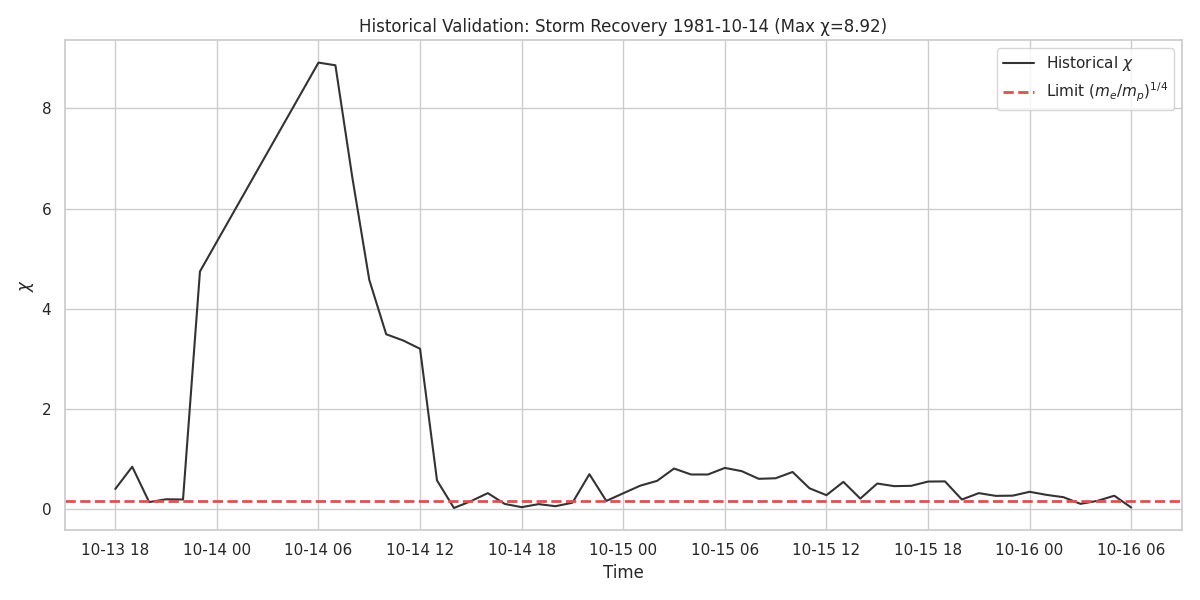
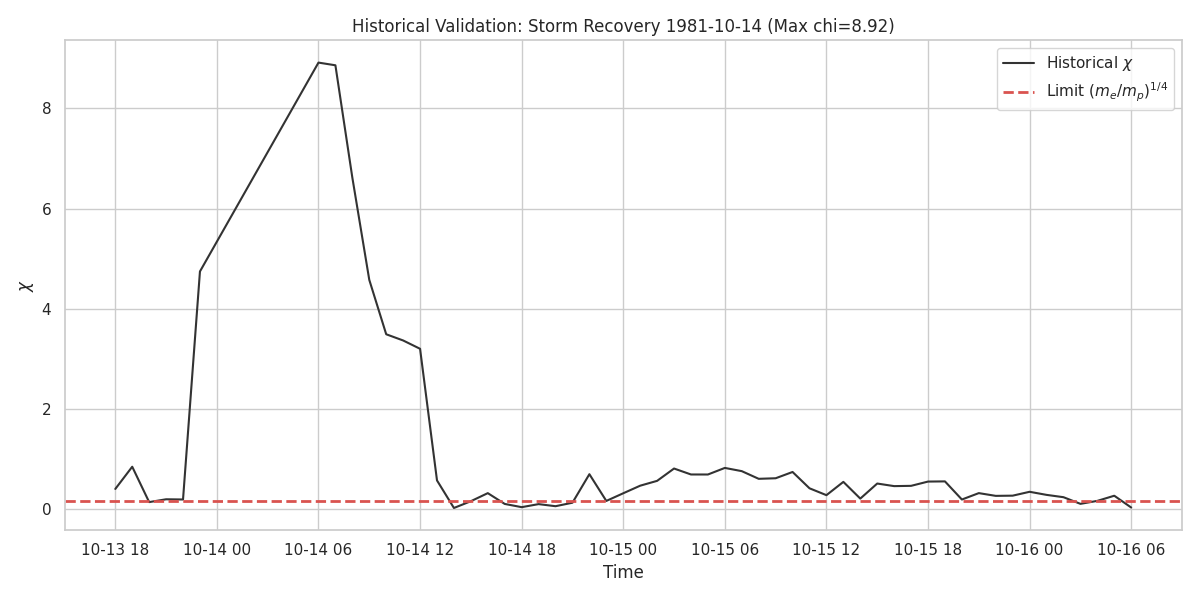
Filter invalid baselines and align plot title wording

Changed region(s): [[0.2775, 0.03, 0.74, 0.06]]

diff --git a/scripts/verify_historical_recovery.py b/scripts/verify_historical_recovery.py
@@ -28,7 +28,10 @@ def load_data() -> pd.DataFrame:
             print("Computing chi from B_total_nT and B_baseline_nT...")
             baseline = df["B_baseline_nT"].replace(0, np.nan)
             baseline = baseline.mask(baseline.abs() < BASELINE_EPSILON)
-            df["chi"] = np.abs(df["B_total_nT"] - baseline) / baseline
+            valid = baseline.notna()
+            df = df.loc[valid].copy()
+            df["B_baseline_nT"] = baseline[valid]
+            df["chi"] = np.abs(df["B_total_nT"] - df["B_baseline_nT"]) / df["B_baseline_nT"]
         else:
             raise ValueError("Expected chi or B_total_nT/B_baseline_nT columns in dataset.")
 
@@ -69,7 +72,7 @@ def plot_recovery(df: pd.DataFrame, events: list[pd.Series]) -> None:
         plt.plot(storm_data["timestamp"], storm_data["chi"], color="#333333", linewidth=1.5, label=r"Historical $\chi$")
         plt.axhline(y=0.1528, color="#d9534f", linestyle="--", linewidth=2, label=r"Limit $(m_e/m_p)^{1/4}$")
 
-        plt.title(f"Historical Validation: Storm Recovery {event_time.date()} (Max χ={event['chi']:.2f})")
+        plt.title(f"Historical Validation: Storm Recovery {event_time.date()} (Max chi={event['chi']:.2f})")
         plt.ylabel(r"$\chi$")
         plt.xlabel("Time")
         plt.legend()
